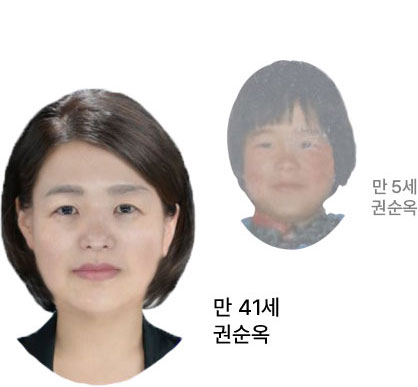
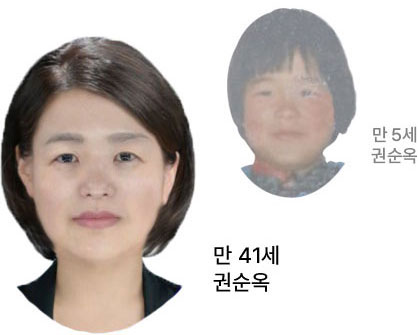
캠페인 슬라이더 구현 1차

diff --git a/index.html b/index.html
@@ -74,19 +74,20 @@
       <h2 class="hidden">진행 중인 캠페인</h2>
       <ul id="camp-slider" class="card-container">
         <li class="slide">
-          <div class="upper">
+          <div class="camp-content">
             <h3>인공지능으로 찾아낸 그리운 얼굴</h3>
             <p>AI 기술로 추정한 실종아동의 현재 모습을 본 적 있다면, <strong>실종아동전문센터</strong>로 연락주세요. <br> 여러분의 관심이 가족을 다시 만나게 할 수 있습니다.</p>
             <p>해당 홍보 캠페인은 KB 금융그룹의 후원으로 진행됩니다.</p>
           </div>
-          <div class="slide-img">
-            <img src="./assets/1-1.jpg" alt="만 41세 권순옥님의 현재 추정 모습">
+          <div class="camp-img-container">
+            <img src="./assets/1-1.jpg" class="active" alt="만 41세 권순옥님의 현재 추정 모습">
             <img src="./assets/1-2.jpg" alt="만 31세 한경진님의 현재 추정 모습">
             <img src="./assets/1-3.jpg" alt="만 37세 서희영님의 현재 추정 모습">
+            <img src="./assets/1-4.jpg" alt="만 36세 길성호님의 현재 추정 모습">
           </div>
         </li>
         <li class="slide">
-          <div class="upper">
+          <div class="camp-content">
             <h3>등록하면 빨리찾는 지문사전등록제</h3>
             <p>소중한 가족을 위해 미리 지문등록 하고 실종 예방하세요!</p>
             <p>등록대상 | 18세 미만 아동, 지적 정신 장애인, 치매환자<br>등록방법 | 안전드림 홈페이지 및 가까운 경찰관서에서 등록하세요.</p>
@@ -95,7 +96,7 @@
           <img src="./assets/2.png" alt="지문사전등록제 안내 일러스트">
         </li>
         <li class="slide">
-          <div class="upper">
+          <div class="camp-content">
             <h3>우리아이 안전사고 예방하기</h3>
             <p>아동안전사고의 68.5%가 가정에서 발생하고 있습니다.</p>
             <p>아동안전지원단에서는 사이버교육 및 교육자료를 무료로 제공하고 있습니다.</p>
@@ -217,20 +218,20 @@
     </section>
     <section class="cooperate wrap">
       <h2 class="hidden">협력기관</h2>
-      <ul id="coop-slider" class="card-container">
-        <li><a href="#"><span class="inline-hidden">아동권리보장원</span></a></li>
-        <li><a href="#"><span class="inline-hidden">보건복지부</span></a></li>
-        <li><a href="#"><span class="inline-hidden">경찰청</span></a></li>
-        <li><a href="#"><span class="inline-hidden">실종아동찾기협회</span></a></li>
-        <li><a href="#"><span class="inline-hidden">국제실종아동센터</span></a></li>
-        <li><a href="#"><span class="inline-hidden">사단법인 해외입양인연대</span></a></li>
-        <li><a href="#"><span class="inline-hidden">한국산업인력공단</span></a></li>
-        <li><a href="#"><span class="inline-hidden">교통안전공단</span></a></li>
-        <li><a href="#"><span class="inline-hidden">계양구시설관리공단</span></a></li>
-        <li><a href="#"><span class="inline-hidden">한국전기안전공사</span></a></li>
-      </ul>
-      <button id="coop-prev" class="slider-btn-sm"><span class="inline-hidden">이전</span></button>
-      <button id="coop-next" class="slider-btn-sm"><span class="inline-hidden">다음</span></button>
+      <div>
+        <ul class="coop-slider card-container">
+          <li><a href="#"><span class="inline-hidden">아동권리보장원</span></a></li>
+          <li><a href="#"><span class="inline-hidden">보건복지부</span></a></li>
+          <li><a href="#"><span class="inline-hidden">경찰청</span></a></li>
+          <li><a href="#"><span class="inline-hidden">실종아동찾기협회</span></a></li>
+          <li><a href="#"><span class="inline-hidden">국제실종아동센터</span></a></li>
+          <li><a href="#"><span class="inline-hidden">사단법인 해외입양인연대</span></a></li>
+          <li><a href="#"><span class="inline-hidden">한국산업인력공단</span></a></li>
+          <li><a href="#"><span class="inline-hidden">교통안전공단</span></a></li>
+          <li><a href="#"><span class="inline-hidden">계양구시설관리공단</span></a></li>
+          <li><a href="#"><span class="inline-hidden">한국전기안전공사</span></a></li>
+        </ul>
+      </div>
     </section>
   </main>
   <footer>

diff --git a/main.css b/main.css
@@ -312,6 +312,7 @@ header::after {
 
 #campaign ul li {
   width: 82vw;
+  min-width: 1052px;
   height: 26rem;
   padding: 3rem 2rem;
   box-shadow: 0px 0px 22px 0px rgba(0, 0, 0, 0.25);
@@ -321,7 +322,9 @@ header::after {
   display: flex;
   justify-content: space-between;
 }
-
+#campaign ul .camp-content {
+  z-index: 5;
+}
 #campaign ul li h3 {
   font-size: 2rem;
   padding: 1rem 0 1rem;
@@ -348,20 +351,34 @@ header::after {
   margin-top: 1rem;
 }
 
+#campaign ul li .camp-img-container {
+  position: relative;
+  width: 26rem;
+  height: auto;
+}
+
+#campaign ul li .camp-img-container img {
+  position: absolute;
+  width: inherit;
+  height: auto;
+}
+#campaign ul li .camp-img-container img.active {
+  z-index: 5;
+}
 #campaign ul li img {
   display: block;
   height: 20rem;
 }
-#campaign ul li:nth-child(2) img {
-  height: 22rem;
-}
+
 #campaign.min {
   height: 39rem;
 }
+
 #campaign.min ul {
   align-items: initial;
 }
-#campaign.min ul .upper {
+
+#campaign.min ul .camp-content {
   order: 1;
   width: 80%;
   display: flex;
@@ -378,15 +395,19 @@ header::after {
   height: 34rem;
   padding: 1rem;
 }
+
 #campaign.min ul li h3 {
   font-size: 1.5rem;
 }
+
 #campaign.min ul li p {
   font-size: 1rem;
 }
+
 #campaign.min ul li img {
   margin-top: 0;
 }
+
 #campaign.min ul li a {
   margin-top: 1rem;
 }
@@ -606,15 +627,22 @@ header::after {
 .cooperate {
   margin-top: 1.75rem;
   position: relative;
+  height: 3.5rem;
 }
-
+.cooperate > div {
+  width: 100%;
+}
 .cooperate ul {
-  width: fit-content;
-  height: 4rem;
+  width: 100%;
+  height: 100%;
+  display: flex;
+  justify-content: center;
+  flex-wrap: wrap;
 }
 
 .cooperate ul li {
-  width: 11rem;
+  width: 10.5rem;
+  min-width: 110px;
   height: 3.5rem;
   margin: 0 0.5rem;
   overflow: hidden;
@@ -625,6 +653,27 @@ header::after {
   width: 100%;
   height: 100%;
   background: #fff no-repeat center / cover;
+}
+
+.cooperate > button {
+  cursor: pointer;
+  background-color: #fff;
+  border: 1px solid #2E89C9;
+  width: 0.8rem;
+  height: 0.8rem;
+  border-radius: 0.4rem;
+  position: absolute;
+  bottom: 0;
+  transition: background 0.5s;
+}
+.cooperate > button:first-of-type {
+  left: calc(50% - 1.2rem);
+}
+.cooperate > button:last-of-type {
+  left: calc(50% + 0.4rem);
+}
+.cooperate > button.on {
+  background-color: #2E89C9;
 }
 
 footer {
@@ -710,6 +759,19 @@ footer small {
   #gnb {
     padding-right: 0.5rem;
   }
+  #campaign ul li {
+    min-width: auto;
+  }
+  #campaign ul .camp-content {
+    width: 65%;
+  }
+  #campaign ul li .camp-img-container {
+    height: auto;
+    width: 20rem;
+  }
+  #campaign ul li .camp-img-container img {
+    top: calc(50% - 7rem);
+  }
   #campaign ul li img {
     height: 18rem;
   }
@@ -724,8 +786,12 @@ footer small {
   #lnb {
     width: 30rem;
   }
+  #campaign ul li .camp-img-container {
+    height: 18rem;
+    width: 18rem;
+  }
   #campaign ul li img {
-    height: 15rem !important;
+    height: 15rem;
   }
 }
 
@@ -764,9 +830,11 @@ footer small {
   section {
     margin: 0;
   }
+
   #campaign ul li p:nth-of-type(2) {
     margin-top: 0rem;
   }
+
   #metaphor ul {
     margin-top: 0.5rem;
   }
@@ -777,13 +845,6 @@ footer small {
 
   #missing-people {
     margin: 0.75rem;
-  }
-
-  .special-slider-wrap {
-    padding-left: 0;
-    margin-right: 0;
-    margin-left: 0;
-    width: 100%;
   }
 
   .boards {
@@ -811,15 +872,19 @@ footer small {
   html {
     font-size: 60%;
   }
+
   #metaphor .metaphor-firstrow span {
     display: none;
   }
+
   #metaphor .metaphor-firstrow li a {
     padding: 1.5rem
   }
+
   #metaphor .metaphor-lastrow li a {
     padding: 0.75rem;
   }
+
   #campaign ul li img {
     height: 12rem;
   }

diff --git a/js/main.js b/js/main.js
@@ -1,8 +1,11 @@
 $(document).ready(function () {
   let resizeCount = 0
   let isMobile = 0;
+  let temp = 0;
+  let isMoving = 0;
   let missingperson = $('#miss-slider li').get();
-  let cooperate = $('#coop-slider li a').get();
+  let cooperate = $('.coop-slider li a').get();
+
 
   function insertBg(sliderName, folderName) {
     sliderName.forEach((el, idx) => {
@@ -44,6 +47,7 @@ $(document).ready(function () {
     $('#campaign').toggleClass('min');
   }
 
+  // 모바일 화면에서 메뉴 아이콘 터치 시 네비게이션 화면 전환
   $('#navi-show').on('click', function () {
     if ($('header').hasClass('min')) { // 닫기
       $('#lnb, #gnb').fadeOut(200, function () {
@@ -55,9 +59,19 @@ $(document).ready(function () {
     }
   })
 
+  // 캠페인 슬라이더 내 실종아동 페이드인아웃
+  setInterval(() => {
+    $('.camp-img-container img:eq(1):not(:animated)').addClass('active').css({
+      opacity: 0
+    }).animate({
+      opacity: 1
+    }, 1000, function () {
+      $('.camp-img-container').append($('.camp-img-container img:eq(0)')).children('img:last').removeClass('active');
+    })
+  }, 5000);
+
   // 실종아동 슬라이더
-  let temp = 0;
-  let isMoving = 0;
+
   $('#camp-prev').hide();
   $('#camp-next').on('click', function () {
     if (isMoving == 0) {
@@ -96,15 +110,70 @@ $(document).ready(function () {
       marginLeft: '-100%'
     }, 500)
   })
-  // $('#miss-prev').on('click', function() {
-  //   $('#miss-slider').animate({marginLeft: `${}%`}, 500)
-  // })
 
 
+  let round = -3.5;
+  let sliderTop, sliderHeight;
+  let nSlider = $('.cooperate div ul').eq(0).clone();
+  $('.cooperate div').append(nSlider);
 
+  setInterval(() => {
+    $('.cooperate div').animate({
+      marginTop: `${round}rem`
+    }, 1000, function () {
+
+      // sliderTop : 현재 위로 올라간 높이
+      // sliderHeight : 두 개의 ul을 가지고 있는 div의 높이 - 노출되는 컨테이너의 높이 
+
+      sliderTop = parseFloat($(this).css('marginTop')) * -1;
+      sliderHeight = parseFloat($(this).css('height')) - parseFloat($(this).parent().css('height'));
+
+      // 두 값이 같다면, 현재 마지막 ul의 마지막 li가 노출되고 있음
+
+      if (parseInt(sliderTop) == parseInt(sliderHeight)) {
+        $(this).children(':eq(0)').remove();
+        $(this).css({
+          marginTop: (parseFloat($('.cooperate div ul').eq(0).css('height')) - parseFloat($(this).parent().css('height'))) * -1 + 'px'
+        });
+        $(this).append($('.cooperate div ul').eq(0).clone());
+        round = -3.5;
+      }
+
+      // li 높이 만큼의 마진으로 슬라이드 올리기
+      round -= 3.5;
+    })
+  }, 6000);
+
+  let cursorStart, finalPos = 0;
+  let isMouseDown = false;
   // 모바일 터치 시험
+  $('#camp-slider').on('touchstart', function (e) {
+    console.log('clicked')
+    cursorStart = e.touches[0].clientX;
+    isMouseDown = true;
+  }).on('touchmove', function(e) {
+    if (isMouseDown) {
+      $(this).css('transform', `translateX(${e.touches[0].clientX - cursorStart}px)`)
+    }
+  }).on('touchend', function(e) {
+    isMouseDown = false;
+    if ( e.changedTouches[0].clientX - cursorStart < -100) {
+      $('#camp-slider').css('transition', 'all 0.5s').css('transform', 'translateX(-100vw)');
+    } else {
+      $('#camp-slider').css('transition', 'all 0.5s').css('transform', 'translateX(0vw)');
+    }
+    setTimeout(()=>{
+      $('#camp-slider').css('transition', 'none')
+    }, 500)
+  })
+
 
   $('#miss-slider').on('mousedown', function () {
     console.log('clicked!')
   })
+
+
+
+
+
 });
